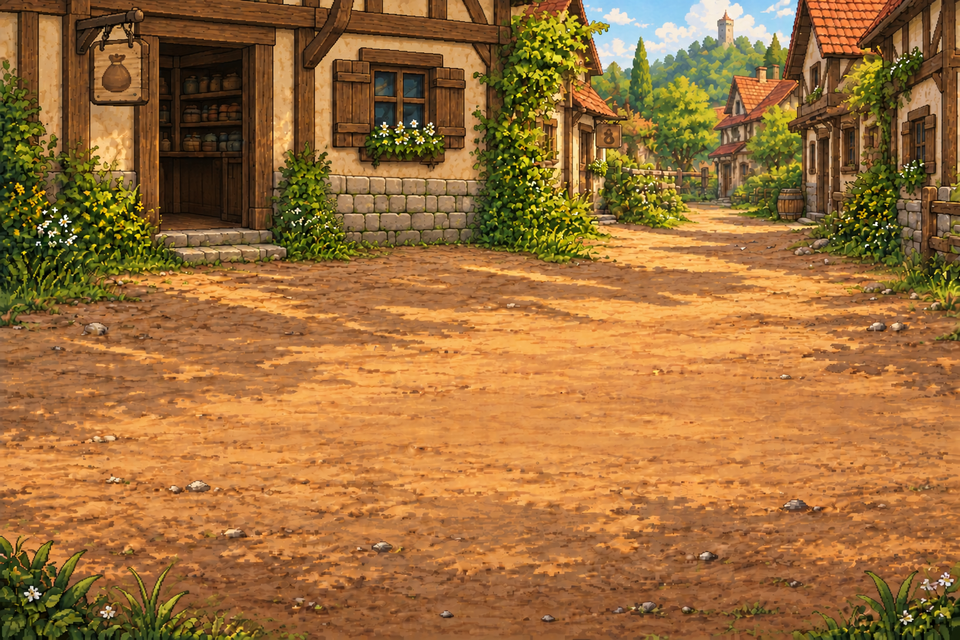
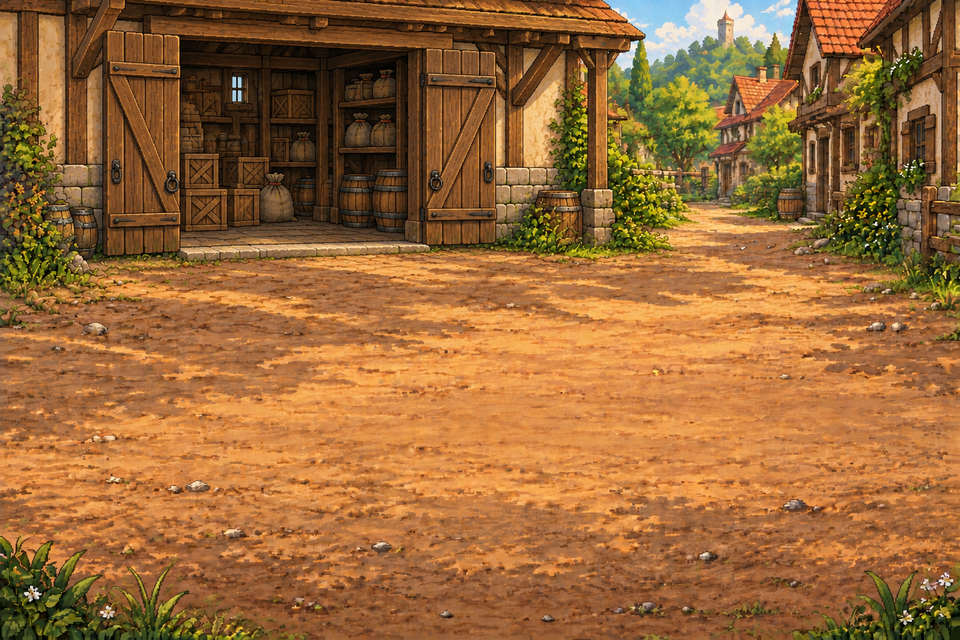
Match delivery setting and keep tower moss rooted before discovery

diff --git a/lib/story-stage-tower.ts b/lib/story-stage-tower.ts
@@ -1,5 +1,8 @@
 import { keeper, moss, lamp, item, type ChapterStage } from "./story-stage-chapter-shared.ts";
 
+// Rooted scenery is present before anyone notices it and remains after sampling.
+const towerCrevice = item("colony", "moss-crevice", 48, 13, { width: 16 });
+
 export const towerStages: Record<string, ChapterStage> = {
   "tower-road-departure": {
     background: "hill-path",
@@ -33,16 +36,21 @@ export const towerStages: Record<string, ChapterStage> = {
   "tower-road-return": {
     background: "tower-foot",
     beats: [
-      { at: 0, aria: { wave: true }, leon: { wave: true }, extras: [keeper()] },
+      {
+        at: 0,
+        aria: { wave: true },
+        leon: { wave: true },
+        extras: [keeper()],
+        items: [towerCrevice],
+      },
       { at: 1, aria: { wave: false }, leon: { wave: false } },
       { at: 2, extras: [keeper("explain", true)] },
       { at: 4, extras: [keeper("point", true)] },
-      { at: 5, aria: { x: 40 }, leon: { x: 59 } },
+      { at: 5, aria: { x: 35 }, leon: { x: 59 } },
       { at: 7, extras: [keeper("explain", true)] },
       {
         at: 8,
-        aria: { inspect: true },
-        items: [item("colony", "colony", 47, 13, { width: 9, glow: "bright" })],
+        aria: { x: 38, inspect: true },
       },
       { at: 9, aria: { inspect: false, reaction: "surprise" } },
       { at: 11, aria: { reaction: undefined, left: false, pose: "think" } },
@@ -50,7 +58,11 @@ export const towerStages: Record<string, ChapterStage> = {
       { at: 14, aria: { pose: "offer" } },
       { at: 17, extras: [keeper("point", true)] },
       { at: 18, aria: { inspect: true } },
-      { at: 19, leon: { carry: true }, items: [moss("leon", "bright")] },
+      {
+        at: 19,
+        leon: { carry: true },
+        items: [towerCrevice, { ...moss("leon", "dim"), x: -4, width: 6 }],
+      },
     ],
   },
   "moss-night-road-departure": {

diff --git a/lib/story-stage-town.ts b/lib/story-stage-town.ts
@@ -23,7 +23,7 @@ function town(
 }
 const departure = [
   town(
-    "後日の取引先で、二人が台に置かれた配達用の箱を見る。",
+    "後日の取引先の倉庫前で、二人が台に置かれた配達用の箱を見る。",
     { pose: "think" },
     { pose: "think" },
     "table",

diff --git a/app/story-stage-chapter.css b/app/story-stage-chapter.css
@@ -47,6 +47,10 @@
   aspect-ratio: 2.6;
   z-index: 1;
 }
+.story-stage-item[data-art="moss-crevice"] {
+  aspect-ratio: 2;
+  z-index: 1;
+}
 .story-stage-item[data-art="map"] {
   aspect-ratio: 2;
 }

diff --git a/lib/story-stage-cues.ts b/lib/story-stage-cues.ts
@@ -104,6 +104,7 @@ export type StageItem = {
     | "map"
     | "cloth"
     | "colony"
+    | "moss-crevice"
     | "dish"
     | "stone"
     | "spatula"

diff --git a/docs/art/story-stage.md b/docs/art/story-stage.md
@@ -13,7 +13,8 @@
 - `meeting-dusk-v1.png`: 1-2達成時の村々への分かれ道。昼の待ち合わせ場所の構図を保った夕景。
 - `return-cart-v1.png`: 同じ荷車に、帰りの買い物を包んだ二つの包み・膨らんだ袋・木箱と予備の雨布を積む。出発時の農産物の籠は載せない。
 - `aria-poses-v1.png` / `leon-poses-v1.png`: 待機・挨拶・驚き・考える・差し出す／説明・得意げ／笑顔の6ポーズ。歩行原本を参照し、頭身・服装・頭の大きさを維持する。原本は3列×2行。[ポーズの生成条件](../art-generation/story-stage-poses-20261009.json)を参照。
-- `town-shop-clear-v1.png`: 1-3の取引先。旧 `town-shop-v1.png` / `town-shop-return-v1.png` は制作原本として残し、現在の配信背景は奥の台を取り除いた共通原本から生成する。屋根越しの遠い丘に既存の塔が見える。
+- `town-warehouse-v1.png`: 1-3の取引先の倉庫前。開いた搬出口の中に木箱・袋・棚が見え、その手前の荷捌き場に人物と台を重ねる。出発・達成とも同じ場所を使い、配信用の `town-shop` / `town-shop-return` の名前は維持する。屋根越しの丘に既存の塔が見える。旧原本は制作履歴として残す。
+- `moss-crevice-v1.png`: 1-4で見つける、石組みの隙間に根づいた少量の苔。管理人との挨拶から同じ位置に置き、発見の台詞で新しく出現・発光させない。アリアが近づいて覗き、少量を採った後にも石組みと群落を残す。2点の参照と全文プロンプトは [場所の修正記録](../art-generation/story-stage-place-20261012.json) を参照。
 - `packing-table-v1.png`: 二人のすぐ前に置く透明な作業台。配達前は下に残りの小箱を置き、達成後は空にする。
 - `merchant-poses-v1.png`: 既存の1-1受け渡しの一枚絵を参照した、取引先の人の待機・説明・下の荷を指す・見送りの4ポーズ。原本は2列×2行、配信は128pxセルの4列×1行。二人と同じ96pxの立ち姿・足裏120pxへ揃える。名前や新しい人物設定は追加しない。[取引先の制作記録](../art-generation/story-stage-merchant-20261010.json)に組み込み `image_gen` の参照画像と全文プロンプトを保存する。
 - `delivery-box-v1.png`: 左右の持ち手と荷札のある配達用の小箱。台・アリアの手元・二人の間を台詞ごとに切り替える。
